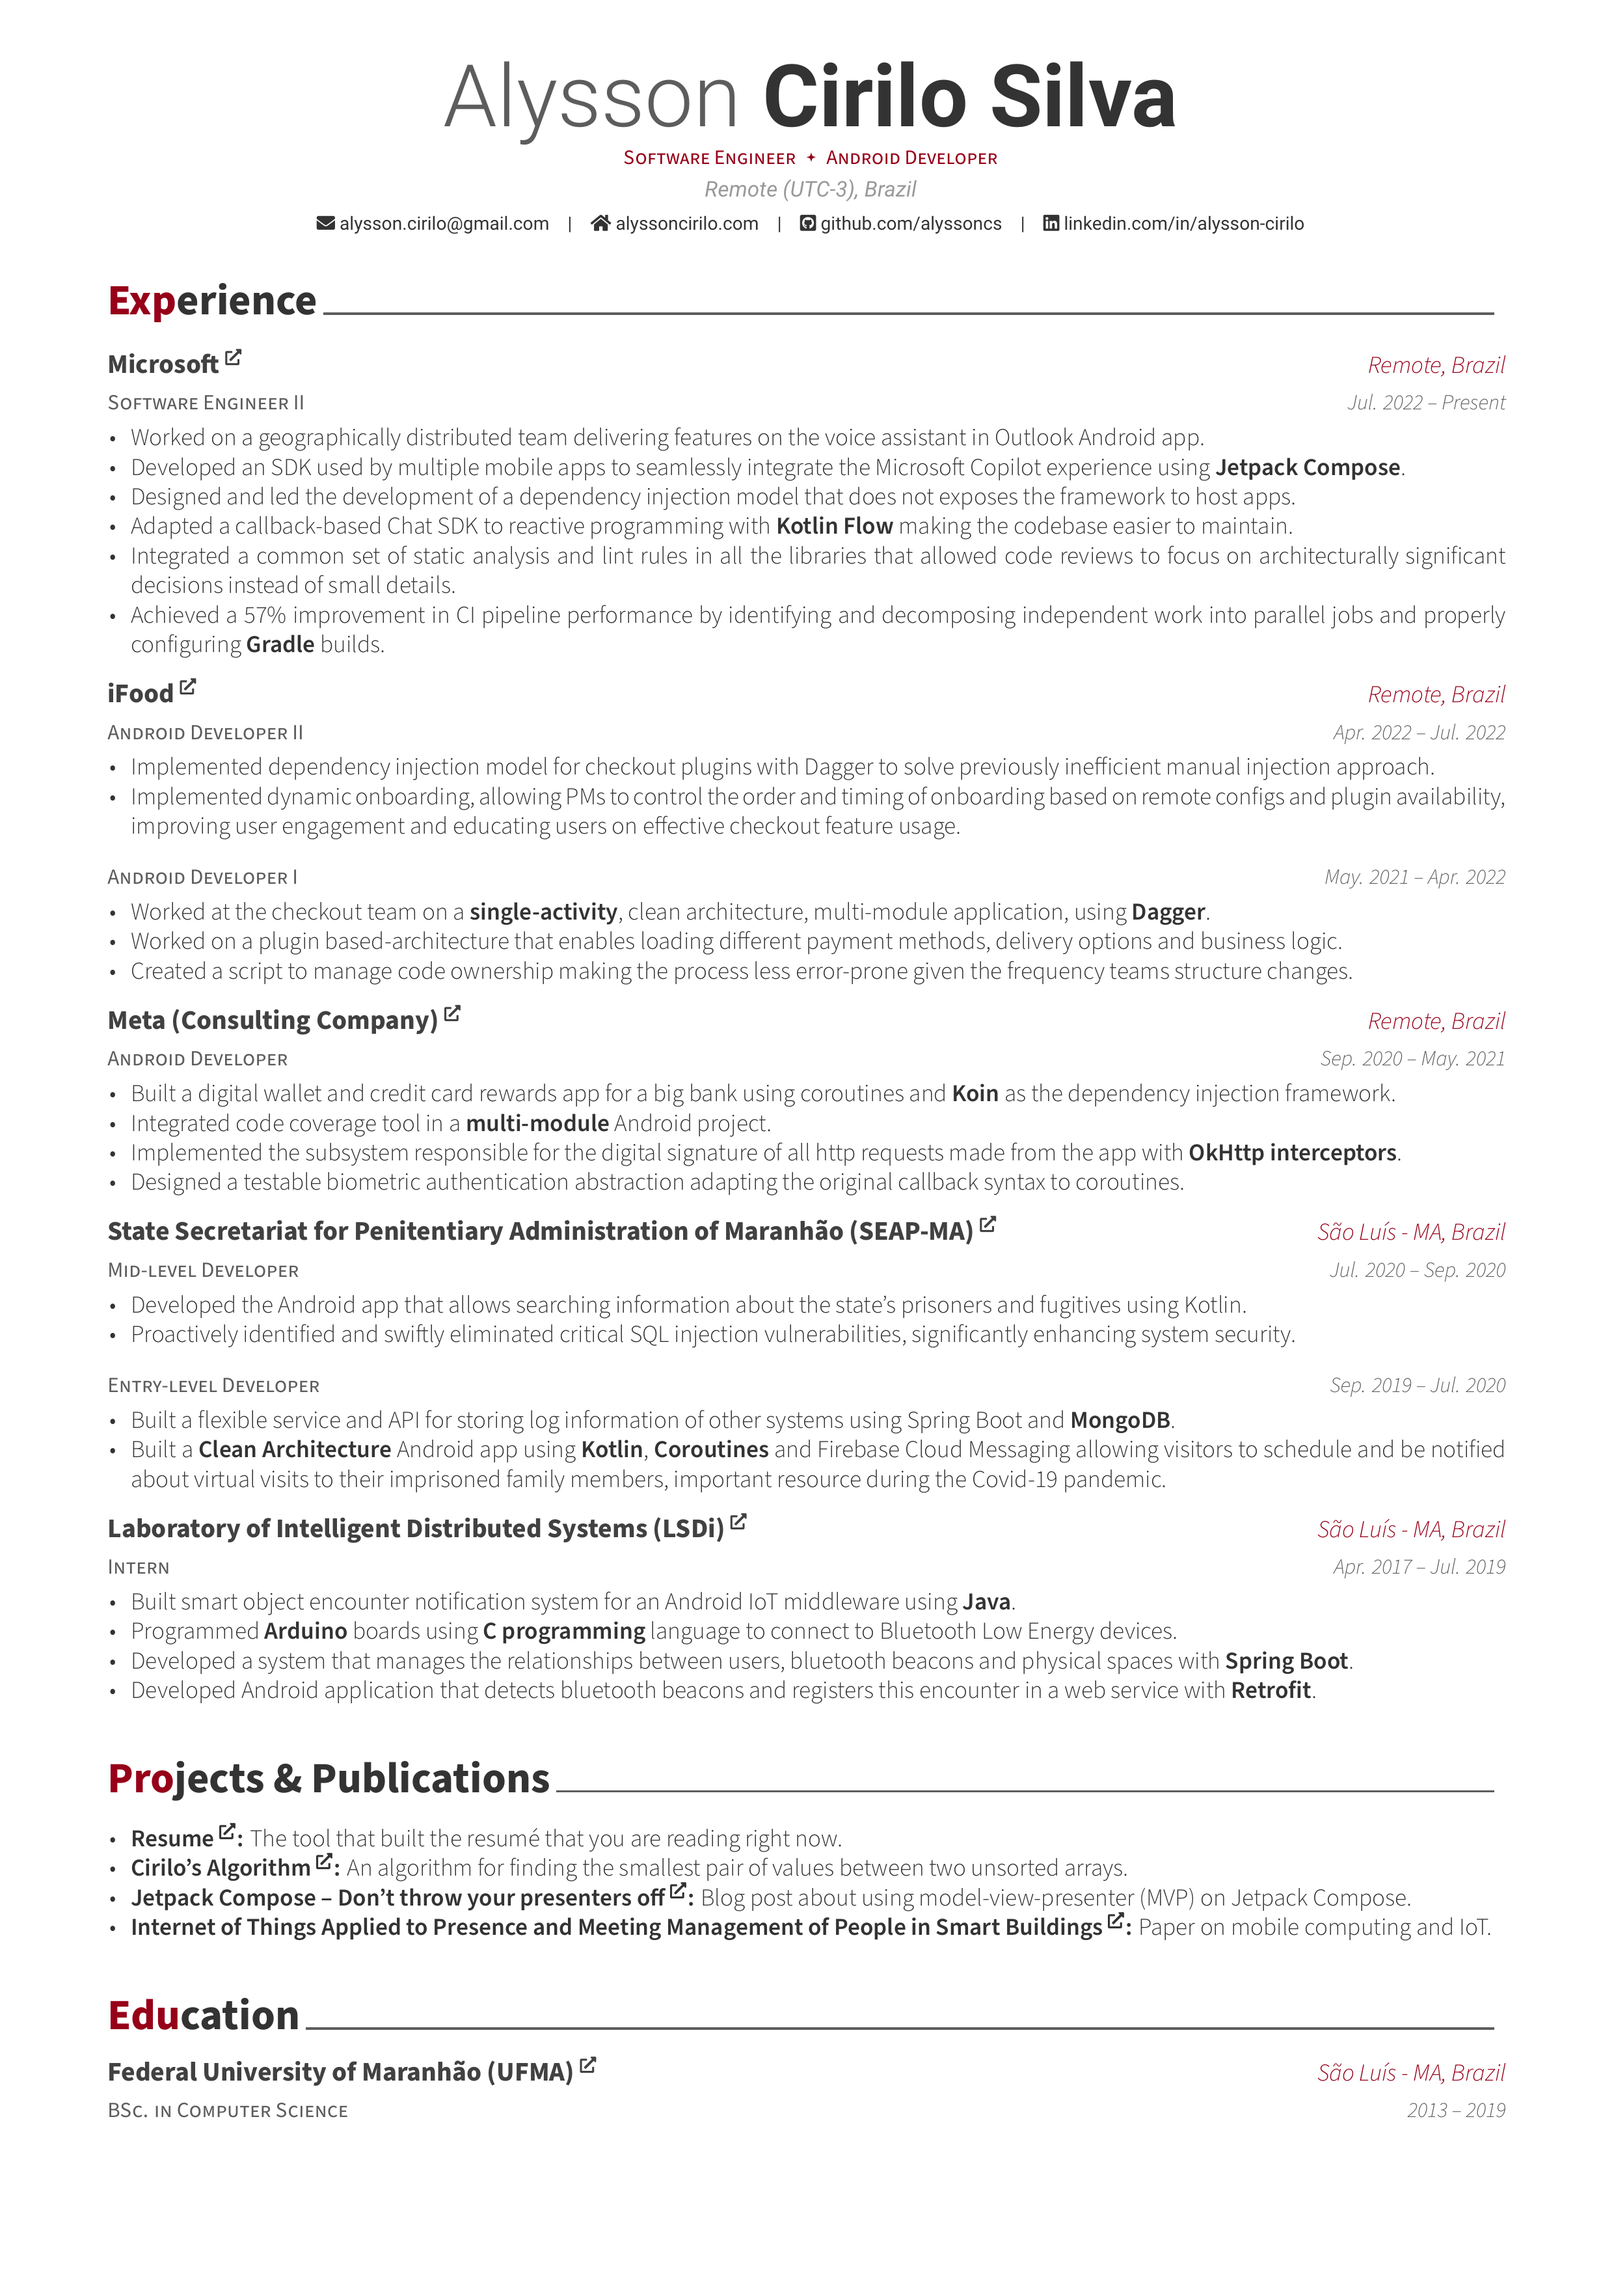
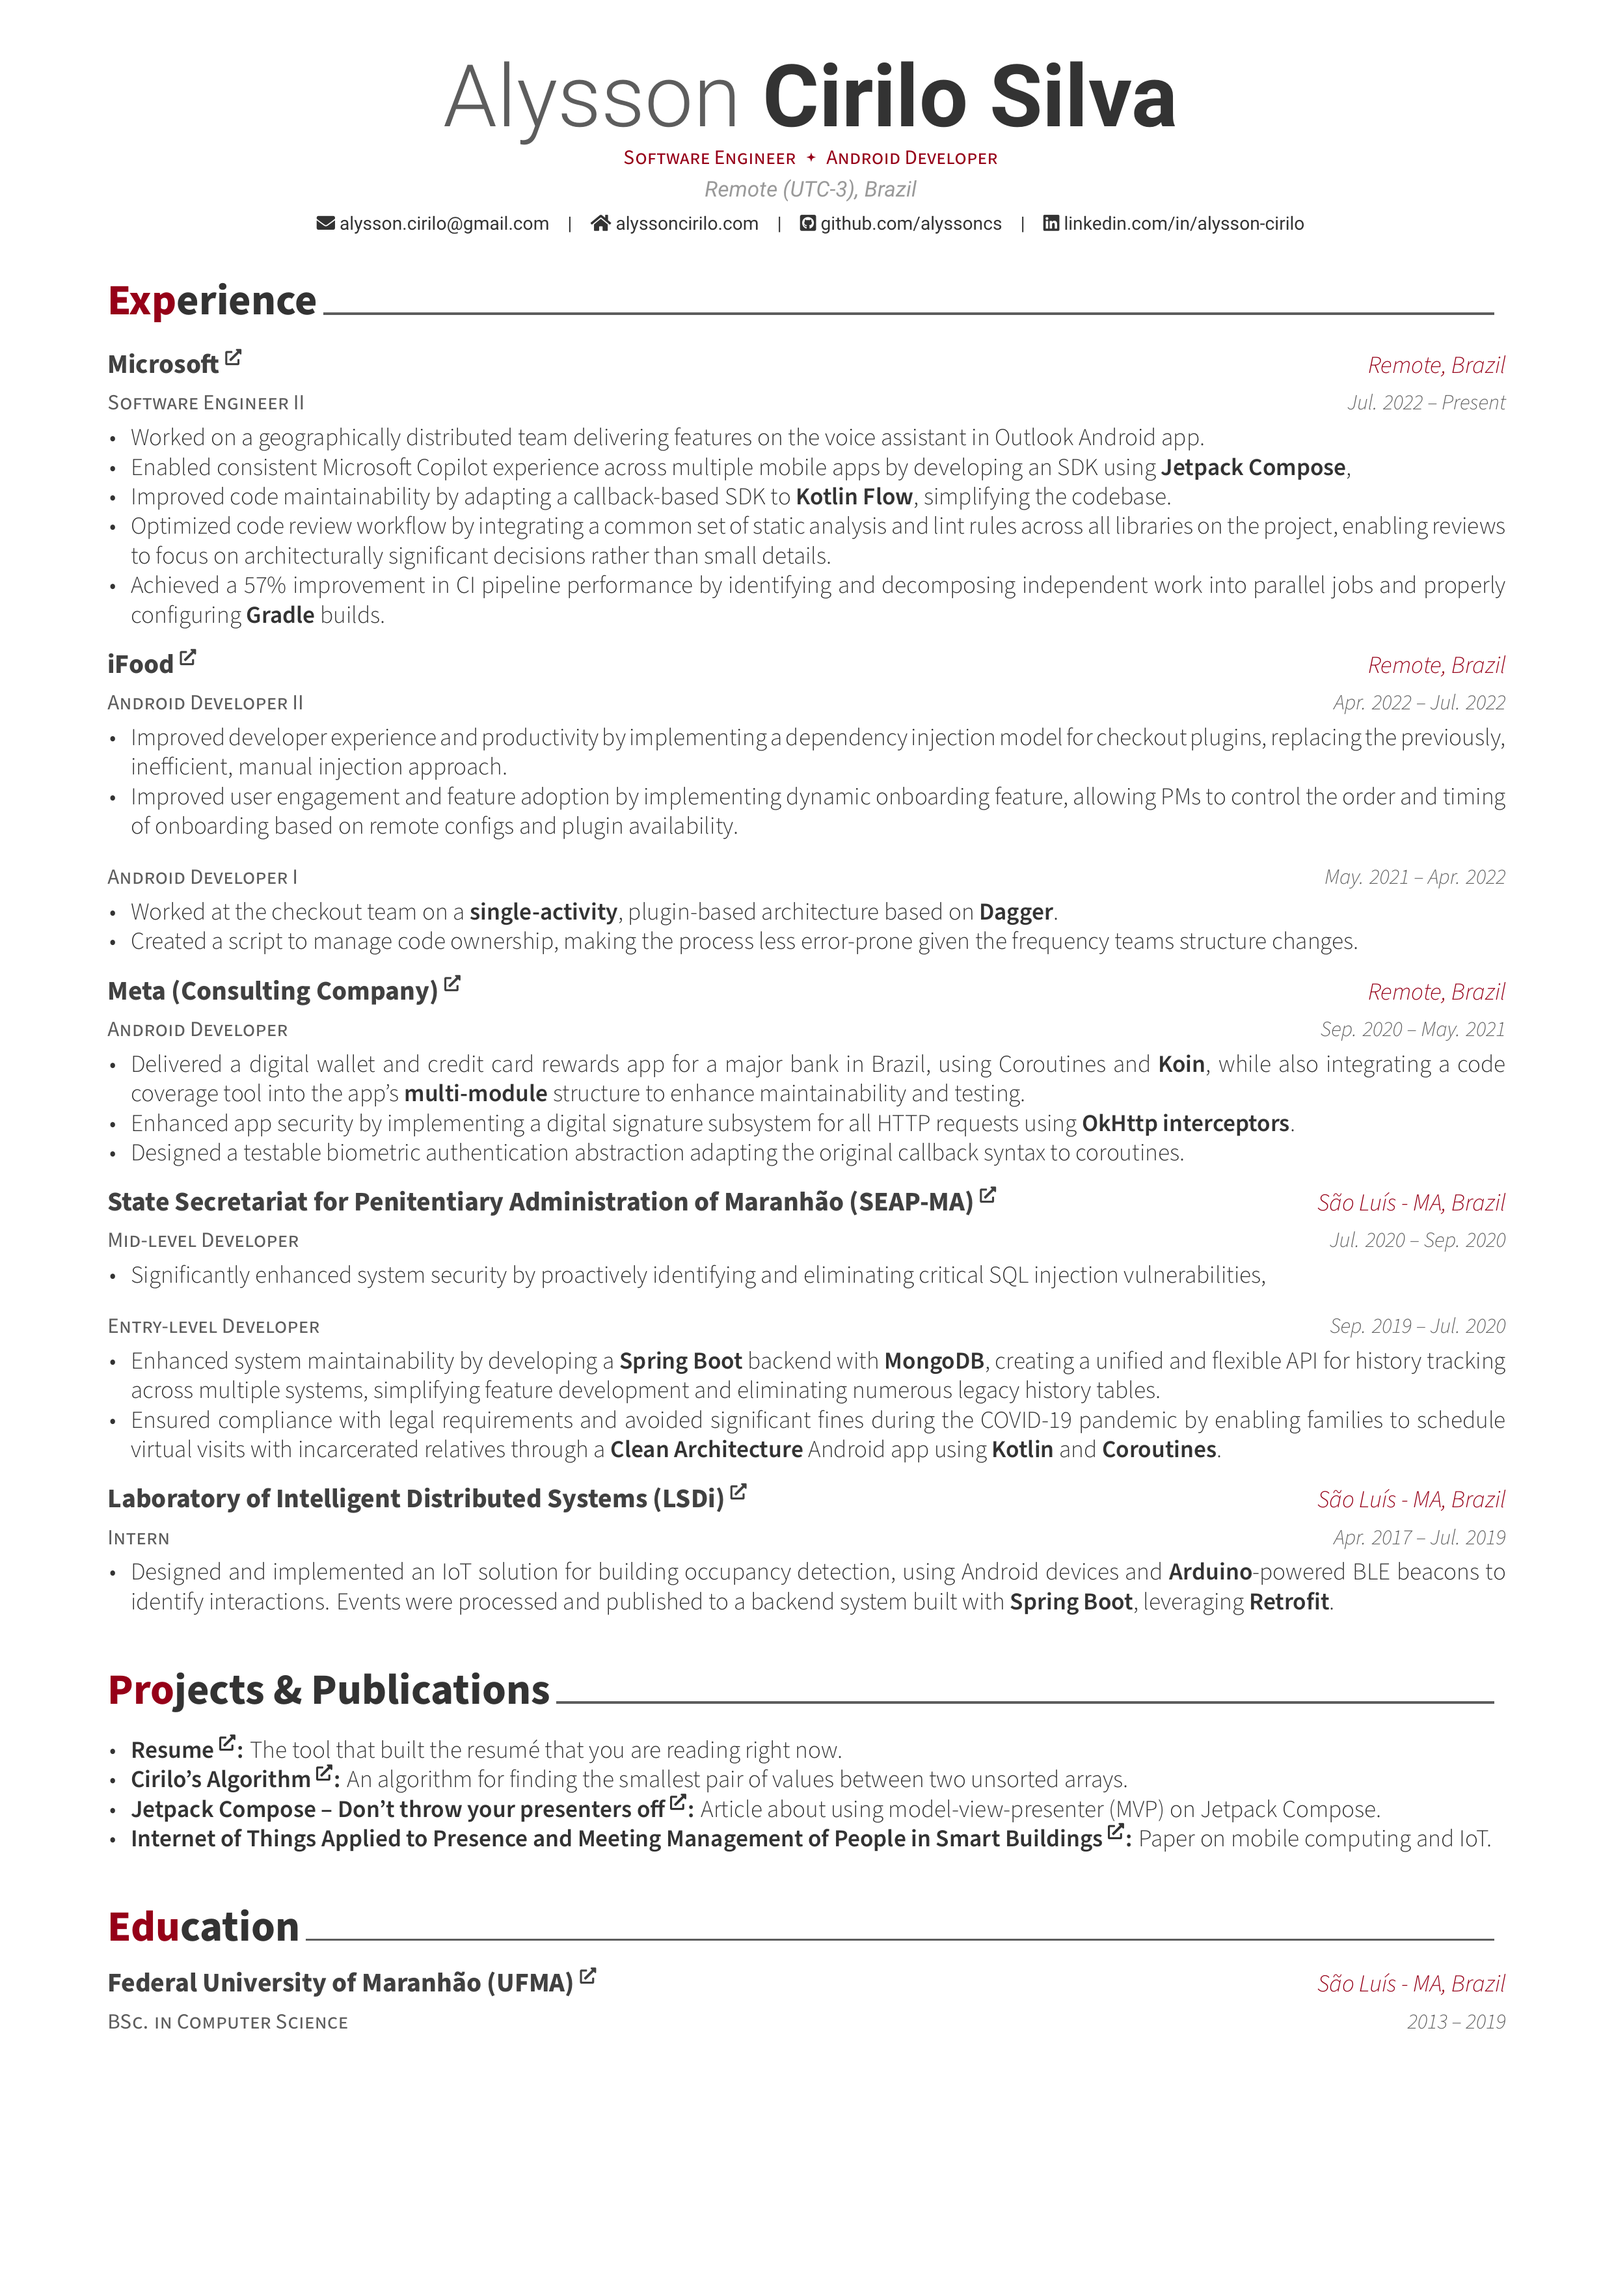
update previews

diff --git a/previews/markdown-resume-preview.md b/previews/markdown-resume-preview.md
@@ -15,10 +15,9 @@
 #### Software Engineer II
 > Jul. 2022 – Present
 - Worked on a geographically distributed team delivering features on the voice assistant in Outlook Android app.
-- Developed an SDK used by multiple mobile apps to seamlessly integrate the Microsoft Copilot experience using **Jetpack Compose**.
-- Designed and led the development of a dependency injection model that does not exposes the framework to host apps.
-- Adapted a callback-based Chat SDK to reactive programming with **Kotlin Flow** making the codebase easier to maintain.
-- Integrated a common set of static analysis and lint rules in all the libraries that allowed code reviews to focus on architecturally significant decisions instead of small details.
+- Enabled consistent Microsoft Copilot experience across multiple mobile apps by developing an SDK using **Jetpack Compose**,
+- Improved code maintainability by adapting a callback-based SDK to **Kotlin Flow**, simplifying the codebase.
+- Optimized code review workflow by integrating a common set of static analysis and lint rules across all libraries on the project, enabling reviews to focus on architecturally significant decisions rather than small details.
 - Achieved a 57% improvement in CI pipeline performance by identifying and decomposing independent work into parallel jobs and properly configuring **Gradle** builds.
 
 ### [iFood](https://www.ifood.com.br/)
@@ -26,52 +25,46 @@
 
 #### Android Developer II
 > Apr. 2022 – Jul. 2022
-- Implemented dependency injection model for checkout plugins with Dagger to solve previously inefficient manual injection approach.
-- Implemented dynamic onboarding, allowing PMs to control the order and timing of onboarding based on remote configs and plugin availability, improving user engagement and educating users on effective checkout feature usage.
+- Improved developer experience and productivity by implementing a dependency injection model for checkout plugins, replacing the previously, inefficient, manual injection approach.
+- Improved user engagement and feature adoption by implementing dynamic onboarding feature, allowing PMs to control the order and timing of onboarding based on remote configs and plugin availability.
 
 #### Android Developer I
 > May. 2021 – Apr. 2022
-- Worked at the checkout team on a **single-activity**, clean architecture, multi-module application, using **Dagger**.
-- Worked on a plugin based-architecture that enables loading different payment methods, delivery options and business logic.
-- Created a script to manage code ownership making the process less error-prone given the frequency teams structure changes.
+- Worked at the checkout team on a **single-activity**, plugin-based architecture based on **Dagger**.
+- Created a script to manage code ownership, making the process less error-prone given the frequency teams structure changes.
 
 ### [Meta (Consulting Company)](https://www.meta.com.br/)
 - Remote, Brazil
 
 #### Android Developer
 > Sep. 2020 – May. 2021
-- Built a digital wallet and credit card rewards app for a big bank using coroutines and **Koin** as the dependency injection framework.
-- Integrated code coverage tool in a **multi-module** Android project.
-- Implemented the subsystem responsible for the digital signature of all http requests made from the app with **OkHttp interceptors**.
+- Delivered a digital wallet and credit card rewards app for a major bank in Brazil, using Coroutines and **Koin**, while also integrating a code coverage tool into the app's **multi-module** structure to enhance maintainability and testing.
+- Enhanced app security by implementing a digital signature subsystem for all HTTP requests using **OkHttp interceptors**.
 - Designed a testable biometric authentication abstraction adapting the original callback syntax to coroutines.
 
-### [State Secretariat for Penitentiary Administration of Maranhão (SEAP-MA)](http://seap.ma.gov.br/)
+### [State Secretariat for Penitentiary Administration of Maranhão (SEAP-MA)](https://seap.ma.gov.br/)
 - São Luís - MA, Brazil
 
 #### Mid-level Developer
 > Jul. 2020 – Sep. 2020
-- Developed the Android app that allows searching information about the state's prisoners and fugitives using Kotlin.
-- Proactively identified and swiftly eliminated critical SQL injection vulnerabilities, significantly enhancing system security.
+- Significantly enhanced system security by proactively identifying and eliminating critical SQL injection vulnerabilities,
 
 #### Entry-level Developer
 > Sep. 2019 – Jul. 2020
-- Built a flexible service and API for storing log information of other systems using Spring Boot and **MongoDB**.
-- Built a **Clean Architecture** Android app using **Kotlin**, **Coroutines** and Firebase Cloud Messaging allowing visitors to schedule and be notified about virtual visits to their imprisoned family members, important resource during the Covid-19 pandemic.
+- Enhanced system maintainability by developing a **Spring Boot** backend with **MongoDB**, creating a unified and flexible API for history tracking across multiple systems, simplifying feature development and eliminating numerous legacy history tables.
+- Ensured compliance with legal requirements and avoided significant fines during the COVID-19 pandemic by enabling families to schedule virtual visits with incarcerated relatives through a **Clean Architecture** Android app using **Kotlin** and **Coroutines**.
 
-### [Laboratory of Intelligent Distributed Systems (LSDi)](http://www.lsdi.ufma.br)
+### [Laboratory of Intelligent Distributed Systems (LSDi)](https://www.lsdi.ufma.br)
 - São Luís - MA, Brazil
 
 #### Intern
 > Apr. 2017 – Jul. 2019
-- Built smart object encounter notification system for an Android IoT middleware using **Java**.
-- Programmed **Arduino** boards using **C programming** language to connect to Bluetooth Low Energy devices.
-- Developed a system that manages the relationships between users, bluetooth beacons and physical spaces with **Spring Boot**.
-- Developed Android application that detects bluetooth beacons and registers this encounter in a web service with **Retrofit**.
+- Designed and implemented an IoT solution for building occupancy detection, using Android devices and **Arduino**-powered BLE beacons to identify interactions. Events were processed and published to a backend system built with **Spring Boot**, leveraging **Retrofit**.
 
 ## Projects & Publications
 - **[Resume](https://github.com/alyssoncs/resume/)**: The tool that built the resumé that you are reading right now.
-- **[Cirilo's Algorithm](https://github.com/alyssoncs/cirilo-algorithm/)**: An algorithm for finding the smallest pair of values between two unsorted arrays.
-- **[Jetpack Compose – Don't throw your presenters off](https://dev.to/alyssoncs/jetpack-compose-don-t-throw-your-presenters-off-43fk)**: Blog post about using model-view-presenter (MVP) on Jetpack Compose.
+- **[Cirilo's Algorithm](https://alyssoncirilo.com/blog/cirilo-algorithm/)**: An algorithm for finding the smallest pair of values between two unsorted arrays.
+- **[Jetpack Compose – Don't throw your presenters off](https://alyssoncirilo.com/blog/dont-throw-your-presenters-off/)**: Article about using model-view-presenter (MVP) on Jetpack Compose.
 - **[Internet of Things Applied to Presence and Meeting Management of People in Smart Buildings](https://revistas.unifacs.br/index.php/rsc/article/view/6890)**: Paper on mobile computing and IoT.
 
 ## Education
